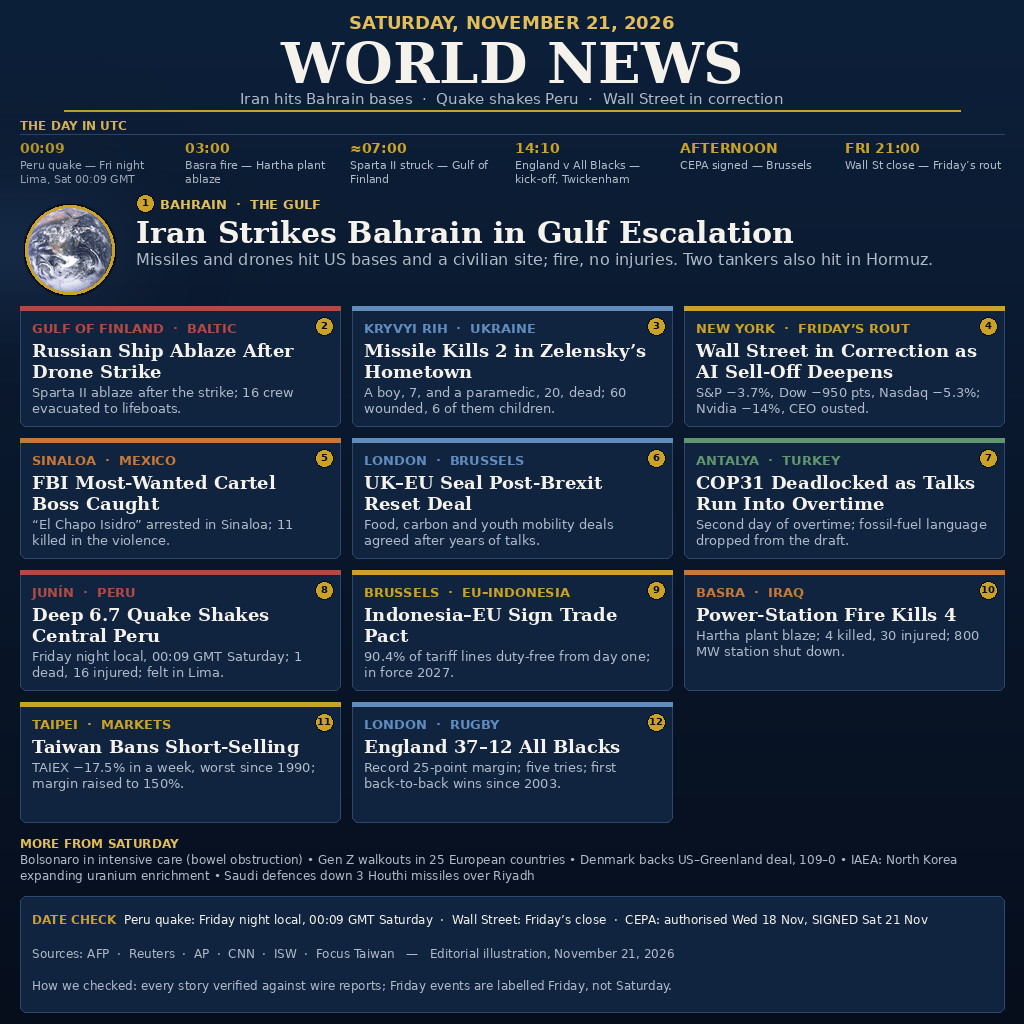
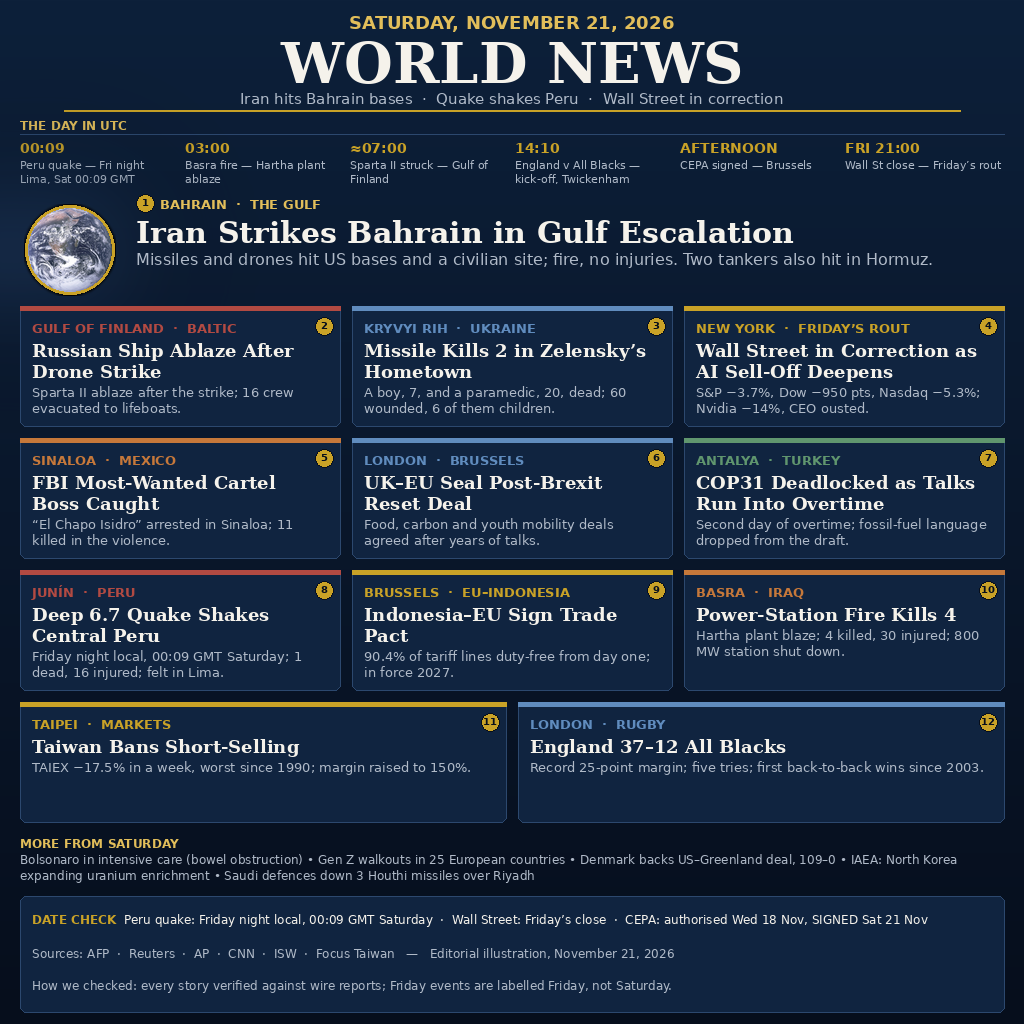
Layout fix: last grid row spans full width (cards 11-12 each 1.5 cols)
The 3-column grid's last row held only cards 11 (Taiwan) and 12
(England), leaving an empty dark cell. Both cards are now 486 px wide
and together span all 3 columns; same card style, colours, badges and
text, captions re-wrapped to the new width (1 line each, no overlap).
No story text, headline, number or fact changed; main.py untouched.

Changed region(s): [[0.3125, 0.6875, 1.0, 0.8125], [0.0938, 0.75, 0.125, 0.7812], [0.0312, 0.75, 0.0625, 0.7812]]

diff --git a/render.py b/render.py
@@ -265,21 +265,29 @@ def render():
         y += 20
 
     # --- Story grid: 4 rows x 3 columns (stories 2-12) ---
+    # Last row holds only stories 11 and 12, so those two cards are each
+    # 1.5 columns wide and together span the full grid width — no empty cell.
     gx, gy = MX, 306
     cw, chh, gap = 320, 120, 12
+    wide_w = (3 * cw + 2 * gap - gap) // 2  # 486: two wide cards + one gap
     for i, s in enumerate(STORIES):
         col, row = i % 3, i // 3
-        x0 = gx + col * (cw + gap)
+        if row == 3:
+            cw_i = wide_w
+            x0 = gx + col * (wide_w + gap)
+        else:
+            cw_i = cw
+            x0 = gx + col * (cw + gap)
         y0 = gy + row * (chh + gap)
-        d.rounded_rectangle([x0, y0, x0 + cw, y0 + chh], radius=6,
+        d.rounded_rectangle([x0, y0, x0 + cw_i, y0 + chh], radius=6,
                             fill=CARD_BG, outline=CARD_LINE, width=1)
-        d.rectangle([x0, y0, x0 + cw, y0 + 4], fill=s["color"])
+        d.rectangle([x0, y0, x0 + cw_i, y0 + 4], fill=s["color"])
         tx2 = x0 + 12
         ty = y0 + 14
         d.text((tx2, ty), s["region"], font=F_REGION, fill=s["color"])
-        draw_badge(d, x0 + cw - 16, y0 + 20, s["num"])
+        draw_badge(d, x0 + cw_i - 16, y0 + 20, s["num"])
         ty += 20
-        hlines = wrap(d, s["headline"], F_HEAD, cw - 24)
+        hlines = wrap(d, s["headline"], F_HEAD, cw_i - 24)
         if len(hlines) > 2:
             print("WARNING: story %d headline wraps to %d lines"
                   % (s["num"], len(hlines)))
@@ -287,7 +295,7 @@ def render():
             d.text((tx2, ty), ln, font=F_HEAD, fill=WHITE)
             ty += 21
         ty += 2
-        clines = wrap(d, s["caption"], F_CAP, cw - 24)
+        clines = wrap(d, s["caption"], F_CAP, cw_i - 24)
         if len(clines) > 2:
             print("WARNING: story %d caption wraps to %d lines"
                   % (s["num"], len(clines)))
